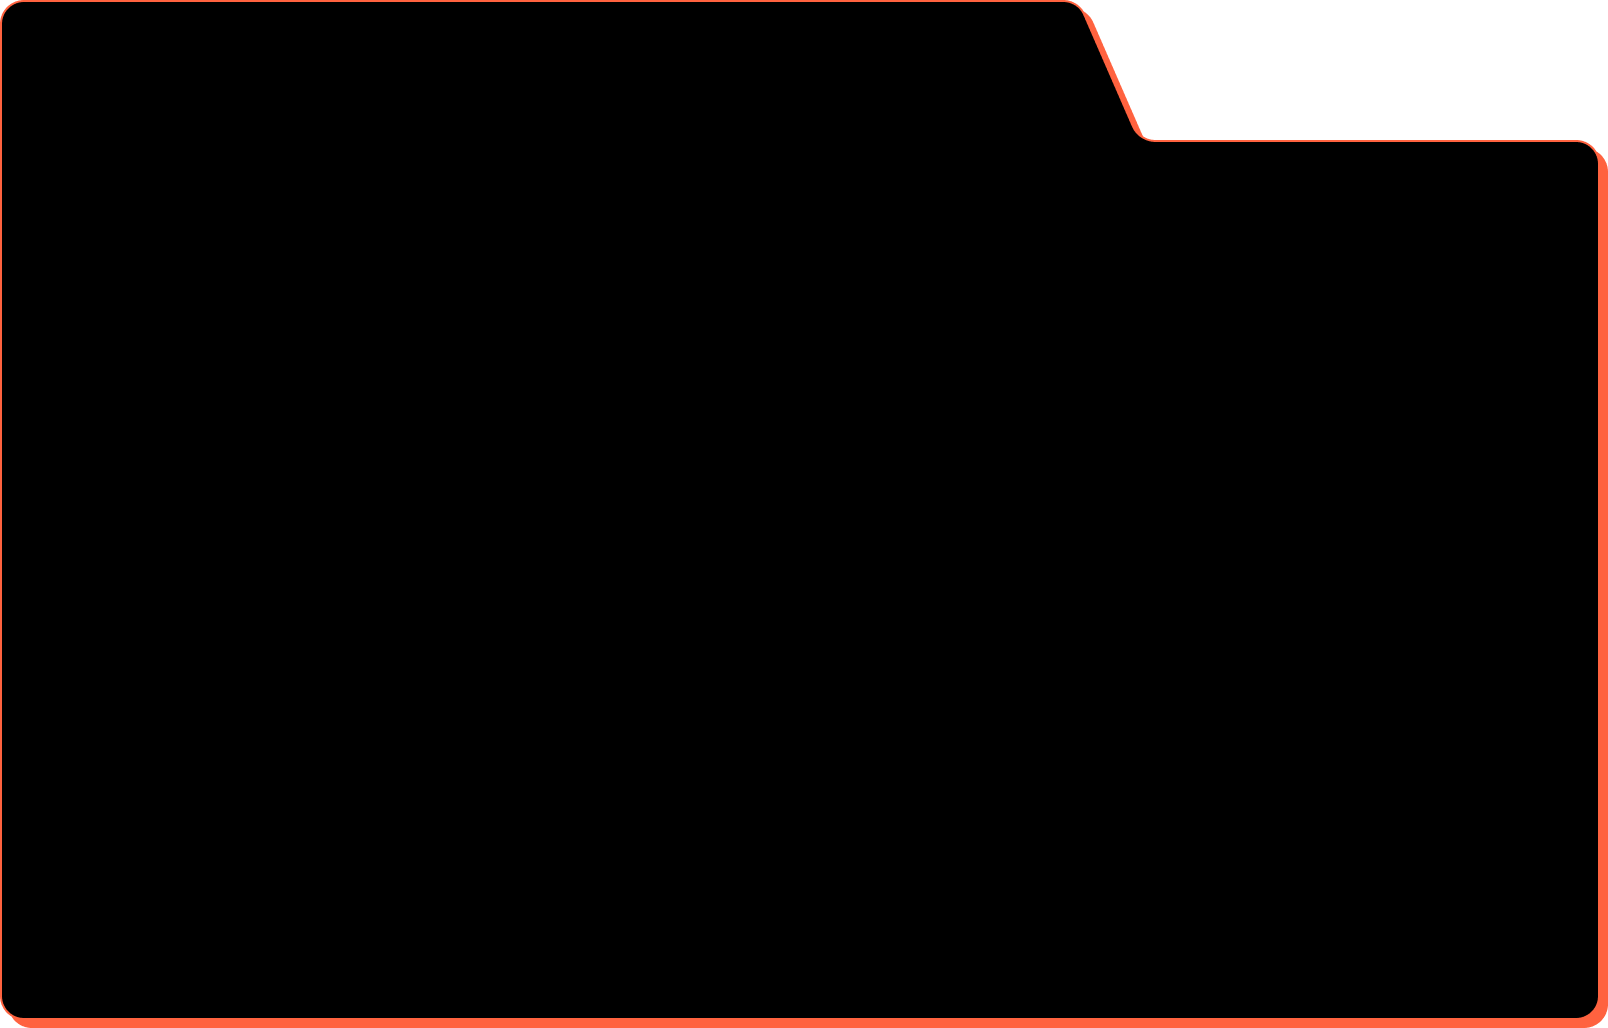
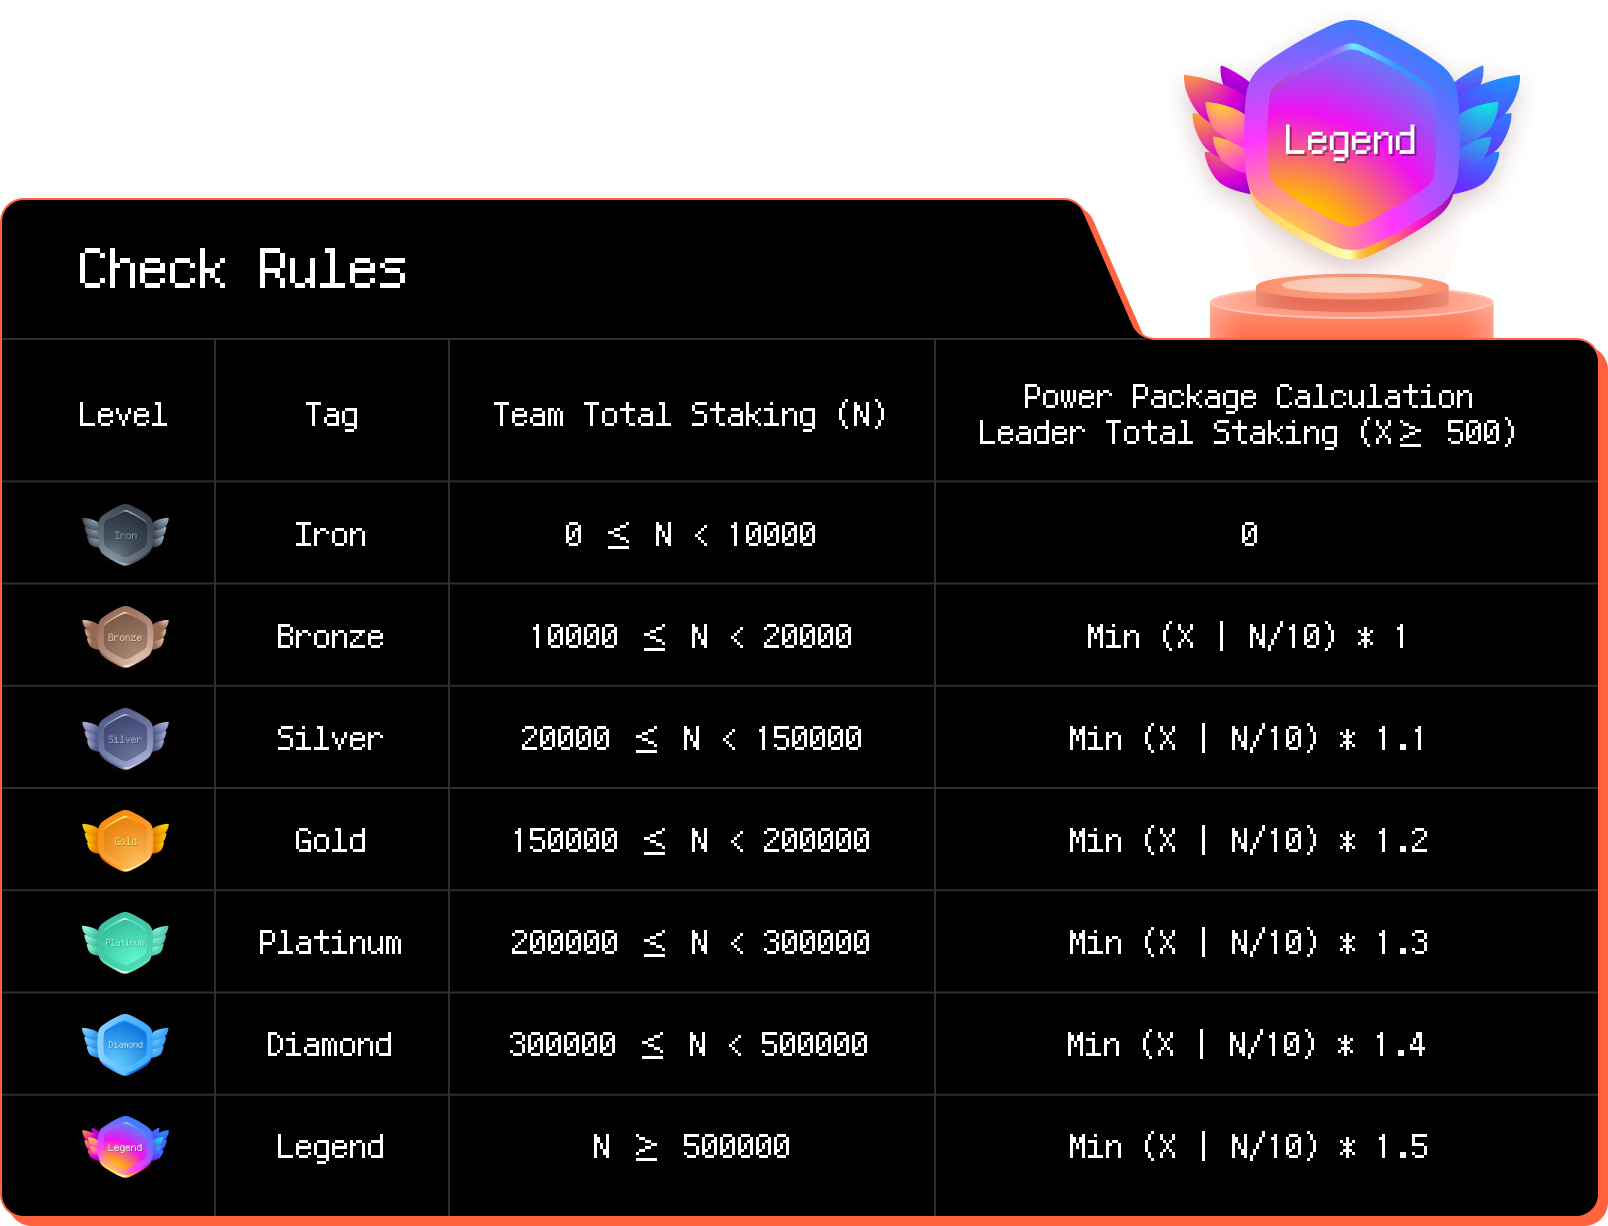
feat: 等级规则弹窗

diff --git a/app/blocks/dashboard/CheckRulesModal.vue b/app/blocks/dashboard/CheckRulesModal.vue
@@ -1,0 +1,80 @@
+<script setup lang="ts">
+// const { t } = useI18n();
+
+// const rows = [
+//   { level: 1, tag: 'iron', teamTotalStaking: '0 <= N < 10000', powerPackageCalculation: '0' },
+//   { level: 2, tag: 'bronze', teamTotalStaking: '10000 <= N < 20000', powerPackageCalculation: '1' },
+//   { level: 3, tag: 'silver', teamTotalStaking: '20000 <= N < 150000', powerPackageCalculation: '1.1' },
+//   { level: 4, tag: 'gold', teamTotalStaking: '150000 <= N < 200000', powerPackageCalculation: '1.2' },
+//   { level: 5, tag: 'platinum', teamTotalStaking: '200000 <= N < 300000', powerPackageCalculation: '1.3' },
+//   { level: 6, tag: 'diamond', teamTotalStaking: '300000 <= N < 500000', powerPackageCalculation: '1.4' },
+//   { level: 7, tag: 'legend', teamTotalStaking: 'N >= 500000', powerPackageCalculation: '1.5' },
+// ];
+</script>
+
+<template>
+  <UModal
+    :ui="{
+      background: 'bg-[url(\'images/check_rules_window_bg_black.png\')] bg-contain bg-no-repeat bg-transparent dark:bg-transparent',
+      base: 'flex flex-col items-start relative flex-1 w-full focus:outline-none text-start rounded-[12px]',
+      width: 'min-w-[804px] w-[804px] max-w-[804px]',
+      height: 'min-h-[613px] h-[613px] max-h-[613px]',
+      overlay: { background: 'bg-black/70 dark:bg-gray-800/70' },
+    }"
+  >
+    <!--    <h2 class="text-[30px] ms-[40px] mt-[116px] mb-[10px]"> -->
+    <!--      {{ t('checkRules') }} -->
+    <!--    </h2> -->
+    <!--    <table -->
+    <!--      class="grow text-[18px] text-center ms-[1px] mt-[1px] mb-[5px] rounded-[15px]" -->
+    <!--    > -->
+    <!--      <thead> -->
+    <!--        <tr> -->
+    <!--          <th> -->
+    <!--            {{ t('level') }} -->
+    <!--          </th> -->
+    <!--          <th> -->
+    <!--            {{ t('tag') }} -->
+    <!--          </th> -->
+    <!--          <th> -->
+    <!--            {{ t('teamTotalStaking') }} -->
+    <!--          </th> -->
+    <!--          <th> -->
+    <!--            {{ t('powerPackageCalculationColumnHead') }} -->
+    <!--          </th> -->
+    <!--        </tr> -->
+    <!--      </thead> -->
+    <!--      <tbody> -->
+    <!--        <tr -->
+    <!--          v-for="row in rows" -->
+    <!--          :key="row.tag" -->
+    <!--        > -->
+    <!--          <td class="w-[107px]"> -->
+    <!--            <NuxtImg -->
+    <!--              class="ms-[30px]" -->
+    <!--              :src="`images/badge_rank_${row.level}.png`" -->
+    <!--              densities="1x 2x" -->
+    <!--              height="31" -->
+    <!--              width="43" -->
+    <!--            /> -->
+    <!--          </td> -->
+    <!--          <td class="w-[116px]"> -->
+    <!--            {{ t(row.tag) }} -->
+    <!--          </td> -->
+    <!--          <td class="w-[242px]"> -->
+    <!--            {{ row.teamTotalStaking }} -->
+    <!--          </td> -->
+    <!--          <td class="w-[332px]"> -->
+    <!--            Min (X | N/10) * {{ row.powerPackageCalculation }} -->
+    <!--          </td> -->
+    <!--        </tr> -->
+    <!--      </tbody> -->
+    <!--    </table> -->
+  </UModal>
+</template>
+
+<style scoped lang="postcss">
+th {
+  padding: 28px 0;
+}
+</style>

diff --git a/app/pages/index.vue b/app/pages/index.vue
@@ -4,11 +4,11 @@ import { toast } from 'vue-sonner';
 const { t } = useI18n();
 const { $api } = useNuxtApp();
 const { isConnected, address, signMessage } = useWallet();
-const { token, setToken } = useUserStore();
+const userStore = useUserStore();
 
 const loginAttempted = ref<boolean>(false);
 
-const noPermission = computed(() => loginAttempted.value && !token && isConnected.value);
+const noPermission = computed(() => loginAttempted.value && !userStore.token && isConnected.value);
 
 const approveProcessing = ref<boolean>(false);
 
@@ -42,7 +42,7 @@ function signLoginMessage() {
             .then((res) => {
               if (res) {
                 loginAttempted.value = true;
-                setToken(res);
+                userStore.token = res;
                 navigateTo('/dashboard');
               }
             });

diff --git a/app/stores/user.ts b/app/stores/user.ts
@@ -19,11 +19,11 @@ export const useUserStore = defineStore('user-store', () => {
     router.replace({ query: { network: network.network } });
   }
 
-  const token = ref<string | undefined>(localStorage.getItem('token') ?? undefined);
+  const token = ref<string | undefined>(); // localStorage.getItem('token') ?? undefined
   watch(token, async (value) => {
     if (value) {
       await refreshUserState();
-      localStorage.setItem('token', value);
+      // localStorage.setItem('token', value);
     }
   });
 

diff --git a/app/blocks/dashboard/TeamStatWindow.vue b/app/blocks/dashboard/TeamStatWindow.vue
@@ -1,5 +1,6 @@
 <script setup lang="ts">
 import TeamChart from '~/blocks/dashboard/TeamChart.client.vue';
+import CheckRulesModal from '~/blocks/dashboard/CheckRulesModal.vue';
 
 const { t } = useI18n();
 const { user } = useUserStore();
@@ -14,7 +15,7 @@ const teamStakingAmount = 350000;
 const totalMinedAmount = 1905;
 
 function checkRulesBtnOnTap() {
-
+  useModal().open(CheckRulesModal);
 }
 </script>
 
